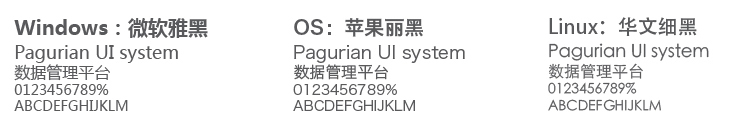
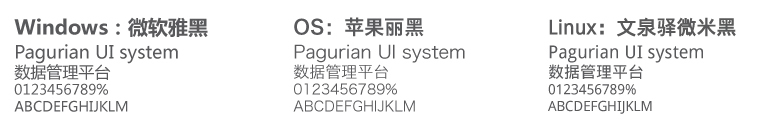
Update UI

diff --git a/SUMMARY.md b/SUMMARY.md
@@ -7,6 +7,7 @@
    * [布局](themes/layout.md)
    * [表单](themes/form.md)
    * [状态提示](themes/status.md)
+   * [图表用色规范](charts/README.md)
 * 组件
    * [按钮标准](widgets/anniu.md)
    * [文字/图标按钮](widgets/character&icon_button.md)
@@ -17,24 +18,25 @@
    * [单选、多选框](widgets/check&radio_box.md)
    * [输入选择（框）按钮](widgets/input&select_button.md)
    * [表单按钮](widgets/form_button.md)
+   * [筛选器](others/filter.md)
+   * [面包屑](bread_crumbs.md)
+   * [工具栏](others/tool_bar.md)
    * [对话框](widgets/dialog_box.md)
    * [警告框](widgets/warning_box.md)
    * [提示框、弹出框](widgets/tooltip&popover.md)
    * [导航栏/顶部菜单](widgets/navigation_bar.md)
    * [边栏/左侧菜单](widgets/side_bar.md)
-* [表格](tables/README.md)
-* [图表用色规范](charts/README.md)
-* 其他
    * [汇总面板](others/billboard.md)
+   * [汇总面板与图表联动](others/billboard_link_charts.md)
+   * [搜索栏](others/search_engine.md)
+* [表格](tables/README.md)
+* 其他
    * [多系统切换](others/system_switch.md)
    * [导航栏/顶部菜单展开](others/navigation_bar_menu.md)
-   * [搜索栏](others/search_engine.md)
-   * [筛选器](others/filter.md)
-   * [工具栏](others/tool_bar.md)
    * [语言切换](others/langurage_switch.md)
-   * [汇总面板与图表联动](others/billboard_link_charts.md)
    * [邮件页面](email_page.md)
    * [说明标注文本](description.md)
    * [于Tab中显示过滤标签](filtered_data_name_in_tab.md)
    * [上传控件](upload.md)
+   * [自定义报告过滤器](custom_report_filter.md)
 

diff --git a/bread_crumbs.md b/bread_crumbs.md
@@ -1,0 +1,23 @@
+# 面包屑
+
+####普通单行状态
+![Alt text](./image/UI-Standar-LUXURY-43-1.jpg)
+
+* 链接：font : 14px, #@500
+* 当前页面名：font : 14px, #575757
+* 当前页面名不可点击
+
+<br>
+---
+####两行状态
+![Alt text](./image/UI-Standar-LUXURY-43-2.jpg)
+
+* 第一行：font : 12px, #@500
+* 当前页：font : 20px, #575757
+* 当前页面名不可点击
+
+
+<br>
+<br>
+---
+![mark logo](./image/UI-Standar-V.jpg)

diff --git a/custom_report_filter.md b/custom_report_filter.md
@@ -1,0 +1,17 @@
+# 自定义报告过滤器
+
+这是一个页面级浮层。
+![Alt text](./image/UI-Standar-LUXURY-42-1.jpg)
+![Alt text](./image/UI-Standar-LUXURY-42-2.jpg)
+
+
+活动指标中：
+* 组的名称: 14px, #575757
+* 行为名称: 18px, #575757
+* 细分选项名称: 14px, #575757
+
+行为区块：
+* 选中@100
+* 选中#f5f5f5
+
+其他未注明的文字和颜色遵循标准

diff --git a/README.md b/README.md
@@ -22,12 +22,19 @@
 
 
 #####[What's New / 更新]
+2016-04
+* 更新了按钮的样式
+
+2016-01
+* 新增了面包屑样式
+* 新增了自定义报告过滤器
+* 调整了文档中的各控件的归类
+
 
 2015-12
 * 新增了上传控件样式
-
-2015-12
 * 工具栏样式调整
+* 更新了Linux系统默认字体规范
 
 2015-11
 * 调整整个文档的排版

diff --git a/widgets/character&icon_button.md b/widgets/character&icon_button.md
@@ -1,10 +1,10 @@
 # 文字按钮 与 图标按钮
 
-####文字按钮
-![Alt text](../image/UI-Standar-LUXURY-10-1.jpg)
+####文字/图标按钮
+![Alt text](../image/UI-Standar-LUXURY-10d-1.jpg)
 ---
-####图表按钮
-![Alt text](../image/UI-Standar-LUXURY-10-2.jpg)
+####按钮在底色状态中
+![Alt text](../image/UI-Standar-LUXURY-10d-2.jpg)
 <br>
 <br>
 ---

diff --git a/others/tool_bar.md b/others/tool_bar.md
@@ -5,6 +5,7 @@
 
 
 <p>该工具栏与所对应的图表表格融为一体，故在交互上请用下拉选择或弹出浮层的形式进行交互操作。不要将工具栏高度撑开。
+<p>bg color : #f5f5f5
 
 *“更多“”控件是为了让工具栏井然有序，将平级的稍次要功能都移入“更多”选项。
 

diff --git a/others/langurage_switch.md b/others/langurage_switch.md
@@ -1,6 +1,6 @@
 # 语言切换
 
-![Alt text](../image/UI-Standar-LUXURY-34-1.jpg)
+![Alt text](../image/UI-Standar-LUXURY-34-2.jpg)
 
 此按钮控件出现在所有页面的页脚上，这样做是为了方便用户切换到自己使用的语言环境。
 <p>按钮默认就显示一种与系统相同的语言

diff --git a/widgets/page_button.md b/widgets/page_button.md
@@ -1,6 +1,9 @@
 # 分页按钮
 
-![Alt text](../image/UI-Standar-LUXURY-12-1.jpg)
+![Alt text](../image/UI-Standar-LUXURY-12d-1.jpg)
+---
+####按钮在底色状态中
+![Alt text](../image/UI-Standar-LUXURY-12d-2.jpg)
 <br>
 <br>
 ---

diff --git a/widgets/switch_button.md b/widgets/switch_button.md
@@ -1,6 +1,9 @@
 # 切换按钮
 
-![Alt text](../image/UI-Standar-LUXURY-11-1.jpg)
+![Alt text](../image/UI-Standar-LUXURY-11d-1.jpg)
+---
+####按钮在底色状态中
+![Alt text](../image/UI-Standar-LUXURY-11d-2.jpg)
 <br>
 <br>
 ---

diff --git a/others/search_engine.md b/others/search_engine.md
@@ -11,6 +11,7 @@
 6. 搜索工具栏可应用与所有系统。
 7. 搜索结果根据实际需求可定制。
 
-
+<br>
+----
 ![mark logo](../image/UI-Standar-V.jpg)
 
